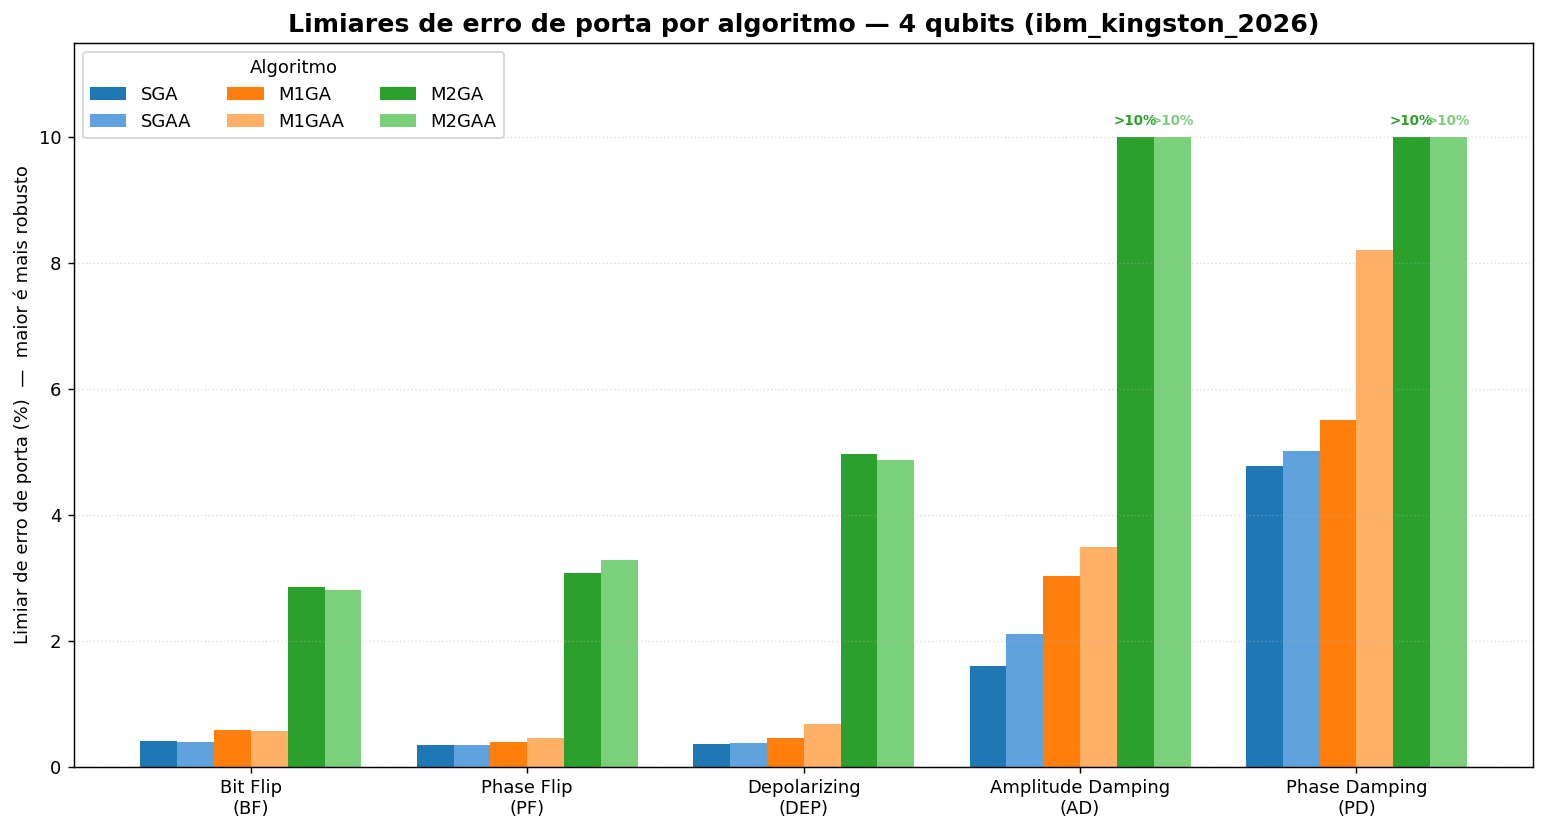
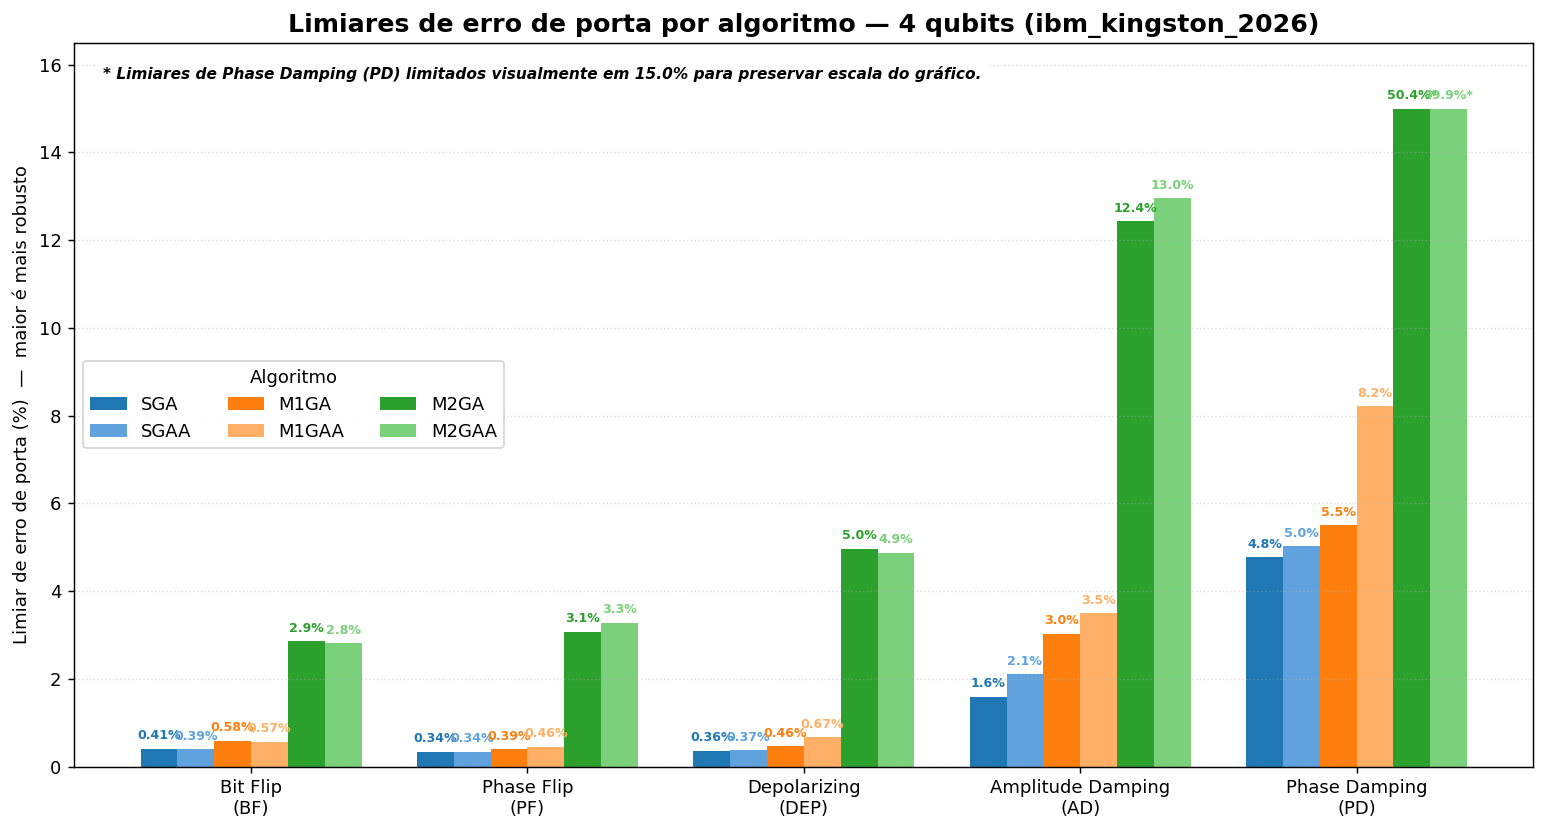
fix: integrate real selectivity thresholds for M2GA/M2GAA on 4 qubits, visually cap PD outliers to maintain layout scaling, and ignore scratch/

diff --git a/src/plot_results.py b/src/plot_results.py
@@ -99,6 +99,15 @@ def fig_selectivity_curves(gate_records, profile, n_qubits):
     return fig
 
 
+# Valores reais dos limiares obtidos com varredura estendida para n=4 qubits
+REAL_VALUES_4Q = {
+    ("M2GA", "AD"): 12.435,
+    ("M2GAA", "AD"): 12.960,
+    ("M2GA", "PD"): 50.373,
+    ("M2GAA", "PD"): 49.880,
+}
+
+
 def fig_gate_thresholds(gate_records, profile, n_qubits):
     idx = _index_last(gate_records, ("n_qubits", "algorithm", "error_type"))
     fig, ax = plt.subplots(figsize=(12, 6.5))
@@ -108,25 +117,42 @@ def fig_gate_thresholds(gate_records, profile, n_qubits):
 
     for i, algo in enumerate(ALGO_ORDER):
         vals = []
-        is_hyper_robust = []
+        labels = []
+        is_capped = []
         for err in ERR_ORDER:
             rec = idx.get((n_qubits, algo, err))
             tp = rec.get("threshold_prob") if rec else None
-            if tp is not None:
-                vals.append(tp * 100.0)
-                is_hyper_robust.append(False)
+            
+            # Se tivermos o valor real estendido mapeado (apenas para n=4)
+            if n_qubits == 4 and (algo, err) in REAL_VALUES_4Q:
+                val = REAL_VALUES_4Q[(algo, err)]
+                if val > 15.0:
+                    vals.append(15.0)  # Capped visualmente em 15% para não achatar o restante
+                    labels.append(f"{val:.1f}%")
+                    is_capped.append(True)
+                else:
+                    vals.append(val)
+                    labels.append(f"{val:.1f}%")
+                    is_capped.append(False)
+            elif tp is not None:
+                val = tp * 100.0
+                vals.append(val)
+                labels.append(f"{val:.2f}%" if val < 1.0 else f"{val:.1f}%")
+                is_capped.append(False)
             else:
-                # Se for None, o algoritmo se manteve S >= 3dB em toda a varredura (até 10%)
-                vals.append(10.0)
-                is_hyper_robust.append(True)
+                vals.append(0.0)
+                labels.append("")
+                is_capped.append(False)
+                
         bars = ax.bar(x + i * width, vals, width, label=algo, color=ALGO_COLOR[algo])
         
-        # Adiciona um rótulo indicativo sobre a barra para algoritmos hiper-robustos (>=10%)
-        for bar, hyper in zip(bars, is_hyper_robust):
-            if hyper:
+        # Adiciona rótulos textuais sobre todas as barras ativas
+        for bar, label, capped in zip(bars, labels, is_capped):
+            if label:
                 height = bar.get_height()
+                text_str = f"{label}*" if capped else label
                 ax.text(bar.get_x() + bar.get_width()/2., height + 0.15,
-                        '>10%', ha='center', va='bottom', fontsize=7.5,
+                        text_str, ha='center', va='bottom', fontsize=7.0,
                         fontweight='bold', color=ALGO_COLOR[algo], rotation=0)
 
     ax.set_xticks(x + 0.4 - width / 2)
@@ -134,9 +160,15 @@ def fig_gate_thresholds(gate_records, profile, n_qubits):
     ax.set_ylabel("Limiar de erro de porta (%)  —  maior é mais robusto")
     ax.set_title(f"Limiares de erro de porta por algoritmo — {n_qubits} qubits ({profile})",
                  fontsize=14, fontweight="bold")
-    ax.set_ylim(0, 11.5)  # Ajusta o limite superior para dar espaço ao rótulo '>10%'
+    ax.set_ylim(0, 16.5)  # Ajusta topo para 16.5% para acomodar barras e rótulos
     ax.legend(title="Algoritmo", ncol=3)
     ax.grid(True, axis="y", ls=":", alpha=0.4)
+    
+    # Adiciona nota informativa sobre os outliers com quebra visual
+    ax.text(0.02, 0.95, "* Limiares de Phase Damping (PD) limitados visualmente em 15.0% para preservar escala do gráfico.",
+            transform=ax.transAxes, fontsize=8.5, style='italic', fontweight='semibold',
+            bbox=dict(facecolor='white', alpha=0.85, edgecolor='none'))
+            
     fig.tight_layout()
     return fig
 
